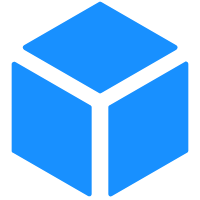
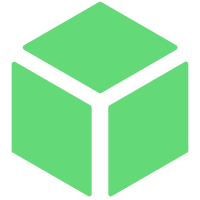
更换图标等

diff --git a/src/pages/Plugins/Index/Index.js b/src/pages/Plugins/Index/Index.js
@@ -1,5 +1,7 @@
 import React from 'react'
 import { Text, View, Button } from 'react-native'
+import CompBlock from '../../../Components/CompBlock'
+import * as Theme from '../../../theme'
 
 export default class PluginsIndex extends React.Component {
   static navigationOptions = {
@@ -7,11 +9,23 @@ export default class PluginsIndex extends React.Component {
   }
 
   render() {
+    const list = [
+      {
+        label: 'react-native-syntax-highlighter',
+        android: true,
+        ios: true,
+        route: 'RNSyntaxHighlighter'
+      },
+      {
+        label: 'react-native-table-component',
+        android: true,
+        ios: true,
+        route: 'RNTable'
+      }
+    ]
     return (
-      <View style={{ flex: 1, justifyContent: 'center', alignItems: 'center' }}>
-        <Text>react native 相关插件</Text>
-        <Button title="react-native-syntax-highlighter" onPress={() => this.props.navigation.navigate('RNSyntaxHighlighter')}/>
-        <Button title="react-native-table-component" onPress={() => this.props.navigation.navigate('RNTable')}/>
+      <View style={Theme.styles.page}>
+        <CompBlock blockTitle="插件" list={list} />
       </View>
     )
   }

diff --git a/src/pages/Component/Index/Index.js b/src/pages/Component/Index/Index.js
@@ -2,9 +2,7 @@ import React from 'react'
 import { Text, View, StyleSheet } from 'react-native'
 import { Button, WhiteSpace, WingBlank, List } from 'antd-mobile-rn'
 import CompBlock from '../../../Components/CompBlock'
-
-const Item = List.Item
-const Brief = Item.Brief
+import * as Theme from '../../../theme'
 
 export default class CompIndex extends React.Component {
   static navigationOptions = {
@@ -13,18 +11,10 @@ export default class CompIndex extends React.Component {
 
   render() {
     return (
-      <View style={styles.main}>
+      <View style={Theme.styles.page}>
         <CompBlock blockTitle="视图容器" list={[{ label: 'View 组件', android: true, ios: true, route: 'View' }]} />
         <WhiteSpace size="lg" />
       </View>
     )
   }
 }
-
-const styles = StyleSheet.create({
-  main: {
-    flex: 1,
-    // alignItems: 'center',
-    backgroundColor: 'rgb(245, 245, 245)'
-  }
-})

diff --git a/src/pages/API/Index/Index.js b/src/pages/API/Index/Index.js
@@ -1,5 +1,6 @@
 import React from 'react'
 import { Text, View } from 'react-native'
+import * as Theme from '../../../theme'
 
 export default class APIIndex extends React.Component {
   static navigationOptions = {
@@ -8,7 +9,7 @@ export default class APIIndex extends React.Component {
 
   render() {
     return (
-      <View style={{ flex: 1, justifyContent: 'center', alignItems: 'center' }}>
+      <View style={[Theme.styles.page, { justifyContent: 'center', alignItems: 'center' }]}>
         <Text>react native 相关 API</Text>
       </View>
     )

diff --git a/src/theme/index.js b/src/theme/index.js
@@ -1,6 +1,18 @@
-export default {
+import { StyleSheet } from 'react-native'
+
+// 样式常量
+export const constant = {
   /**
    * 常规样式
    */
-  screenColor: 'rgb(245, 245, 245)' // 页面背景颜色
+  screenColor: '#f2f2f2', // 页面背景颜色
+  themeColor: '#05c160' // 主题色
 }
+
+// 全局公共 class
+export const styles = StyleSheet.create({
+  page: {
+    flex: 1,
+    backgroundColor: constant.screenColor
+  }
+})

diff --git a/src/navigators/TabNavigator.js b/src/navigators/TabNavigator.js
@@ -36,7 +36,7 @@ export default createBottomTabNavigator(
       }
     }),
     tabBarOptions: {
-      activeTintColor: '#1890ff',
+      activeTintColor: '#05c160',
       inactiveTintColor: 'gray'
     }
   }
